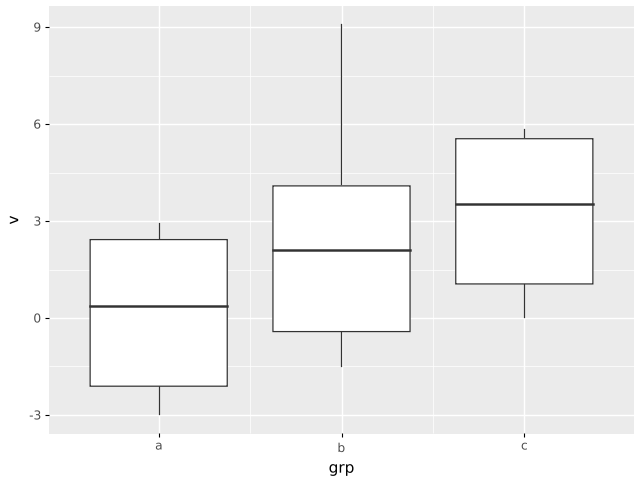
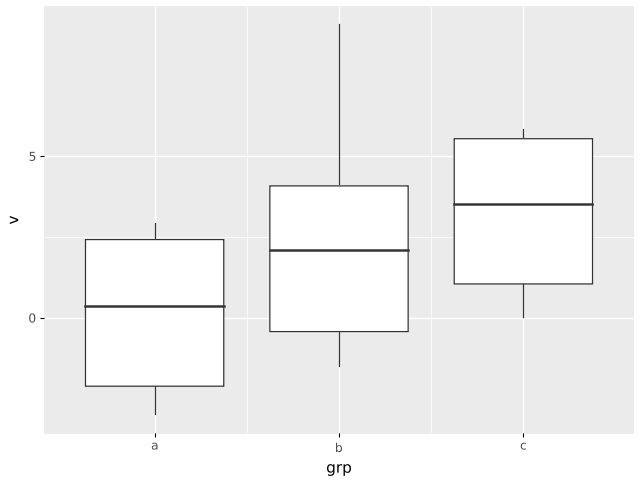
gg: date scales, function-valued after-stat, expanded-range breaks
- scale-x-date/scale-y-date: universal-time columns, calendar breaks
  (:year/:month/:week/:day specs), strftime-subset date-labels, gg:date
  and gg:format-date helpers. Break sequences anchor at the first unit
  boundary at/after the expanded range start (plotnine phase).
- after-stat now also accepts a function of the stat-output table, the
  analogue of plotnine's after_stat('count / count.sum()').
- Continuous axis breaks are computed over the EXPANDED limits, matching
  plotnine >= 0.15 (verified against 0.15.7). This alone moved
  gg-density 0.86 -> 0.96 and gg-violin 0.84 -> 0.95; suite mean is now
  0.891 with 9/18 examples >= 0.90.
- New example twins gg-dates (0.842) and gg-bar-percent (0.917, passes);
  unit tests pin date-break anchoring and format-date directives.

Claude-Session: https://claude.ai/code/session_01FYfjJ4nRE3dU2LPUN2Y3F8

diff --git a/reference_scripts/gg/gg-dates.py b/reference_scripts/gg/gg-dates.py
@@ -1,0 +1,17 @@
+"""gg-dates.py — plotnine reference for examples/gg/gg-dates.lisp"""
+import matplotlib
+matplotlib.use('Agg')
+matplotlib.rcParams['text.hinting'] = 'none'
+import math
+import pandas as pd
+from plotnine import ggplot, aes, geom_line, scale_x_date
+
+dates = pd.date_range('2023-01-01', periods=24, freq='MS')
+vals = [10 + 3*math.sin(i*0.6) + i*0.2 for i in range(24)]
+df = pd.DataFrame({'d': dates, 'v': vals})
+
+p = (ggplot(df, aes('d', 'v')) + geom_line()
+     + scale_x_date(date_breaks='6 months', date_labels='%Y-%m'))
+p.save('reference_images/gg/gg-dates.png', width=6.4, height=4.8,
+       dpi=100, verbose=False)
+print('Saved reference_images/gg/gg-dates.png')

diff --git a/reference_scripts/gg/gg-bar-percent.py b/reference_scripts/gg/gg-bar-percent.py
@@ -1,0 +1,15 @@
+"""gg-bar-percent.py — plotnine reference for examples/gg/gg-bar-percent.lisp"""
+import matplotlib
+matplotlib.use('Agg')
+matplotlib.rcParams['text.hinting'] = 'none'
+import pandas as pd
+from plotnine import ggplot, aes, geom_bar, after_stat
+
+cuts = (['Fair'] * 3 + ['Good'] * 9 + ['Ideal'] * 14 +
+        ['Premium'] * 7 + ['Very Good'] * 11)
+df = pd.DataFrame({'cut': cuts})
+
+p = ggplot(df, aes('cut', y=after_stat('count / count.sum()'))) + geom_bar()
+p.save('reference_images/gg/gg-bar-percent.png', width=6.4, height=4.8,
+       dpi=100, verbose=False)
+print('Saved reference_images/gg/gg-bar-percent.png')

diff --git a/docs/gg-compat-matrix.md b/docs/gg-compat-matrix.md
@@ -1,7 +1,7 @@
 # ggplot (gg) — plotnine compatibility matrix
 
 Status of the `ggplot` system against plotnine's public API and gallery.
-SSIM scores are `make gg-compare-png` results against plotnine 0.13.6
+SSIM scores are `make gg-compare-png` results against plotnine 0.15.7
 references at 640x480/dpi 100 (threshold 0.90; `allowlist-gg.json` carries
 justified exceptions). Updated: 2026-07-06.
 
@@ -9,21 +9,23 @@ justified exceptions). Updated: 2026-07-06.
 
 | example | SSIM | status |
 |---|---|---|
+| gg-density | 0.964 | pass |
 | ggblank | 0.951 | pass |
 | gg-scatter-basic | 0.950 | pass |
+| gg-violin | 0.950 | pass |
 | gg-bar-flip | 0.942 | pass |
 | gg-bar-basic | 0.926 | pass |
 | gg-line-basic | 0.921 | pass |
+| gg-bar-percent | 0.917 | pass |
 | gg-area-stacked | 0.904 | pass |
 | gg-scatter-color | 0.878 | legend geometry |
 | gg-bar-stacked | 0.876 | legend geometry |
 | gg-facet-wrap | 0.872 | strip/tick detail |
 | gg-smooth-lm | 0.868 | ribbon AA detail |
-| gg-density | 0.858 | curve detail |
 | gg-bar-dodge | 0.843 | legend geometry |
-| gg-violin | 0.842 | outline detail |
+| gg-dates | 0.842 | label-aware right margin |
 | gg-histogram | 0.842 | bin edge detail |
-| gg-boxplot | 0.831 | whisker/median weight |
+| gg-boxplot | 0.828 | whisker/median weight |
 | gg-tile-heatmap | 0.764 | colorbar tick/label detail |
 
 Earlier scores were dragged 0.03-0.10 per plot by two backend-side bugs,
@@ -32,7 +34,12 @@ key type, and minor tick MARKS drawn outside the panel (plotnine draws
 only minor gridlines). Glyph rasterization itself matches matplotlib's
 almost exactly (ink ratio 1.016, aligned cosine 0.987 on identical
 strings). The remaining spread is per-plot geometry detail, chiefly
-legend-box layout.
+legend-box layout. A third systemic fix: continuous axis breaks are
+computed over the EXPANDED limits (plotnine >= 0.15 behavior; earlier
+docs assumed unexpanded), which alone moved gg-density 0.86 -> 0.96 and
+gg-violin 0.84 -> 0.95. plotnine also widens the right margin when the
+final x tick label would overflow the figure (visible on gg-dates);
+label-aware margins are not implemented yet.
 
 ## plotnine API surface
 
@@ -52,7 +59,7 @@ All: identity stack fill dodge jitter nudge. (dodge2/jitterdodge planned.)
 ### scales
 | implemented | planned | notes |
 |---|---|---|
-| x/y continuous + discrete, x/y log10, color/fill discrete (HLS = plotnine default), manual, gradient, grey; shape manual; size (area palette); alpha; xlim/ylim/lims; expand-limits | sqrt/reverse/date/datetime; brewer/cmap/gradient2/gradientn; identity scales | log10 transforms data + integer-exponent ticks, like plotnine |
+| x/y continuous + discrete, x/y log10, x/y date, color/fill discrete (HLS = plotnine default), manual, gradient, grey; shape manual; size (area palette); alpha; xlim/ylim/lims; expand-limits | sqrt/reverse/datetime; brewer/cmap/gradient2/gradientn; identity scales | log10 transforms data + integer-exponent ticks, like plotnine. Date scales take universal-time values (see `gg:date`), `:date-breaks '(:month 6)` calendar breaks, `:date-labels` strftime subset |
 
 ### coords / facets
 - coord-cartesian, coord-flip. Planned: coord-fixed/equal/trans.
@@ -71,7 +78,12 @@ dark, void + element-line/rect/text/blank and theme/theme-set/theme-get.
 Planned: 538, xkcd-style, per-side element variants.
 
 ### helpers
-labs xlab ylab ggtitle annotate qplot after-stat ggsave ggdraw.
+labs xlab ylab ggtitle annotate qplot after-stat ggsave ggdraw
+date format-date (universal-time helpers for date scales).
+
+`after-stat` accepts a stat-output column keyword or a function of the
+stat table, the analogue of plotnine's `after_stat('count / count.sum()')`:
+`(gg:aes :y (gg:after-stat (lambda (tbl) ...)))`.
 
 ## plotnine gallery (34 examples)
 
@@ -79,9 +91,10 @@ labs xlab ylab ggtitle annotate qplot after-stat ggsave ggdraw.
   4 bar variants, 3 area, density(+shade), 2 boxplot, 2 violin, 2 facet,
   smoothed means, 3 tile heatmaps (pending colorbar), 2 segment charts,
   text-label examples, qq.
-- **Needs planned features (4)**: date-break manipulation (date scales),
-  counts/percentages tutorial (after_stat arithmetic), after_scale()
-  example, plot composition example.
+- **Needs planned features (2)**: after_scale() example, plot composition
+  example. (Date-break manipulation and counts/percentages are now
+  implementable: `scale-x-date`/`scale-y-date` and function-valued
+  `after-stat` cover them — see gg-dates and gg-bar-percent.)
 - **Blocked (3)**: geom_map x2 (no geospatial support), spiral animation
   (static backends).
 - **Extension package (1)**: density-ridges (not core plotnine).
